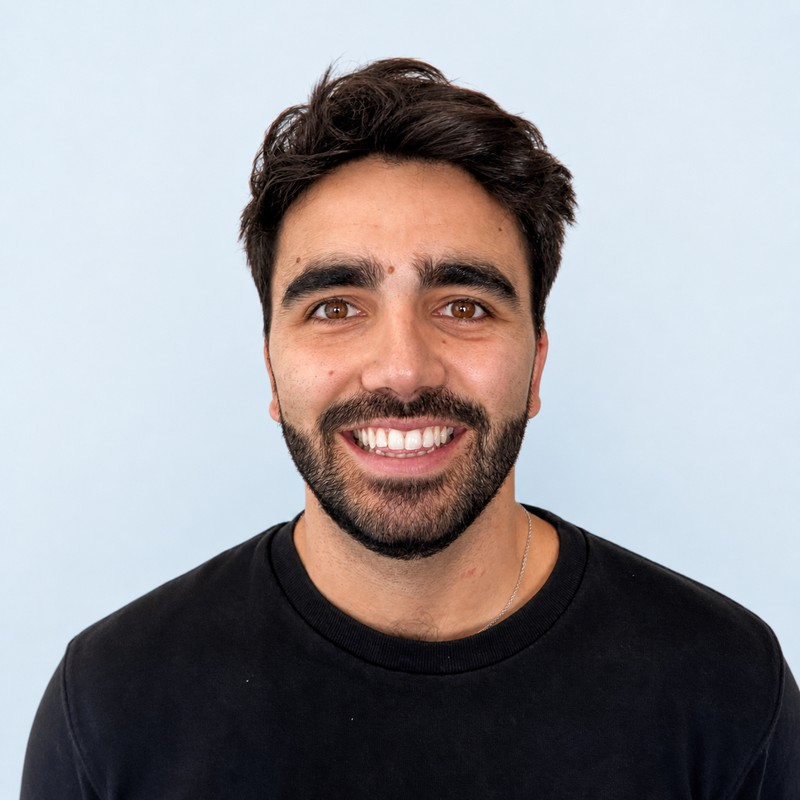
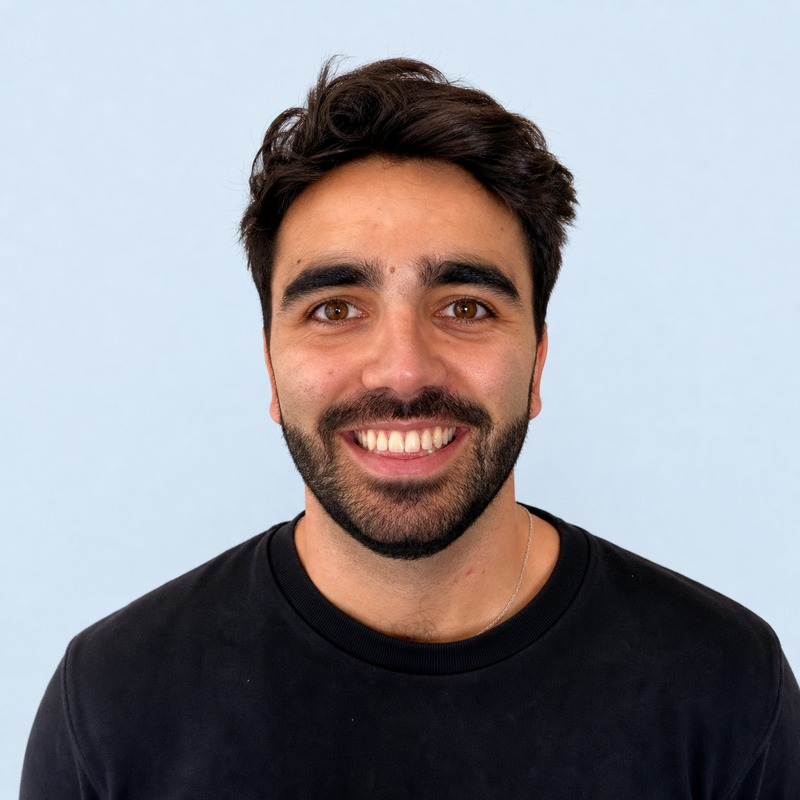
Update profile image and current affiliation

diff --git a/index.html b/index.html
@@ -29,7 +29,7 @@
       <section class="profile">
         <div class="profile-copy">
           <h1>Jeremias Inchauspe</h1>
-          <p class="subtitle">Junior Researcher, Center for Cognitive Neuroscience, Universidad de San Andrés</p>
+          <p class="subtitle">CONICET Fellow and Junior Researcher, Center for Cognitive Neuroscience, Universidad de San Andrés</p>
           <p class="location">Victoria, Buenos Aires, Argentina</p>
           <div class="link-row" aria-label="Profile links">
             <a href="mailto:[email redacted]">[email redacted]</a>
@@ -43,8 +43,8 @@
 
       <section class="content-section">
         <p>
-          Jeremias Inchauspe is a psychologist and junior researcher at the
-          <a href="https://udesa.edu.ar/centro-de-neurociencias-cognitivas" target="_blank" rel="noreferrer">Center for Cognitive Neuroscience</a>
+          Jeremias Inchauspe is a psychologist, CONICET fellow, and junior researcher at the
+          <a href="https://www.udesa.edu.ar/cnc" target="_blank" rel="noreferrer">Center for Cognitive Neuroscience</a>
           at Universidad de San Andrés.
         </p>
         <p>
@@ -53,6 +53,16 @@
         <p>
           He is currently involved in a research project on automated machine-learning approaches to language changes in Alzheimer's disease and frontotemporal dementia in Latin American and English-speaking populations.
         </p>
+      </section>
+
+      <section class="content-section">
+        <div>
+          <h2>Current Appointments</h2>
+          <ul class="compact-list">
+            <li><strong>Current</strong> - Becario CONICET.</li>
+            <li><strong>2024 - present</strong> - Junior Researcher, <a href="https://www.udesa.edu.ar/cnc" target="_blank" rel="noreferrer">Center for Cognitive Neuroscience</a>, Universidad de San Andrés.</li>
+          </ul>
+        </div>
       </section>
 
       <section class="content-section">

diff --git a/cv.html b/cv.html
@@ -37,19 +37,27 @@
 
       <section class="content-section two-column">
         <div>
+          <h2>Current Roles</h2>
+          <ul class="compact-list">
+            <li><strong>Current</strong> - Becario CONICET.</li>
+            <li><strong>2024 - present</strong> - Junior Researcher, <a href="https://www.udesa.edu.ar/cnc" target="_blank" rel="noreferrer">Center for Cognitive Neuroscience</a>, Universidad de San Andrés.</li>
+          </ul>
+        </div>
+        <div>
           <h2>Education</h2>
           <ul class="compact-list">
             <li><strong>2024</strong> - Licenciatura en Psicología, Pontificia Universidad Católica Argentina. GPA: 8.25/10.</li>
             <li><strong>Thesis</strong> - Estimación temporal retrospectiva y prospectiva y su relación con la ansiedad y la impulsividad en adultos. Grade: 10/10. <a href="https://repositorio.uca.edu.ar/handle/123456789/16544" target="_blank" rel="noreferrer">repository</a></li>
           </ul>
         </div>
-        <div>
+      </section>
+
+      <section class="content-section">
           <h2>Languages and Tools</h2>
           <ul class="compact-list">
             <li><strong>Programming</strong> - Python.</li>
             <li><strong>English</strong> - Advanced; Cambridge ESOL Level 2 Certificate in ESOL International (C1).</li>
           </ul>
-        </div>
       </section>
     </main>
 

diff --git a/research.html b/research.html
@@ -34,10 +34,18 @@
 
       <section class="timeline">
         <article class="timeline-item">
+          <div class="date">Current</div>
+          <div>
+            <h2>Becario CONICET</h2>
+            <p>Current CONICET fellowship.</p>
+          </div>
+        </article>
+
+        <article class="timeline-item">
           <div class="date">Mar 2024 - present</div>
           <div>
             <h2>Junior Researcher</h2>
-            <p>Center for Cognitive Neuroscience, Universidad de San Andrés. Victoria, Buenos Aires, Argentina.</p>
+            <p><a href="https://www.udesa.edu.ar/cnc" target="_blank" rel="noreferrer">Center for Cognitive Neuroscience</a>, Universidad de San Andrés. Victoria, Buenos Aires, Argentina.</p>
           </div>
         </article>
 

diff --git a/assets/css/styles.css b/assets/css/styles.css
@@ -136,7 +136,9 @@ a:focus {
 .profile-photo {
   width: 190px;
   aspect-ratio: 1;
+  border: 1px solid var(--line);
   border-radius: 6px;
+  background: #eef6fb;
   object-fit: cover;
   box-shadow: var(--shadow);
 }